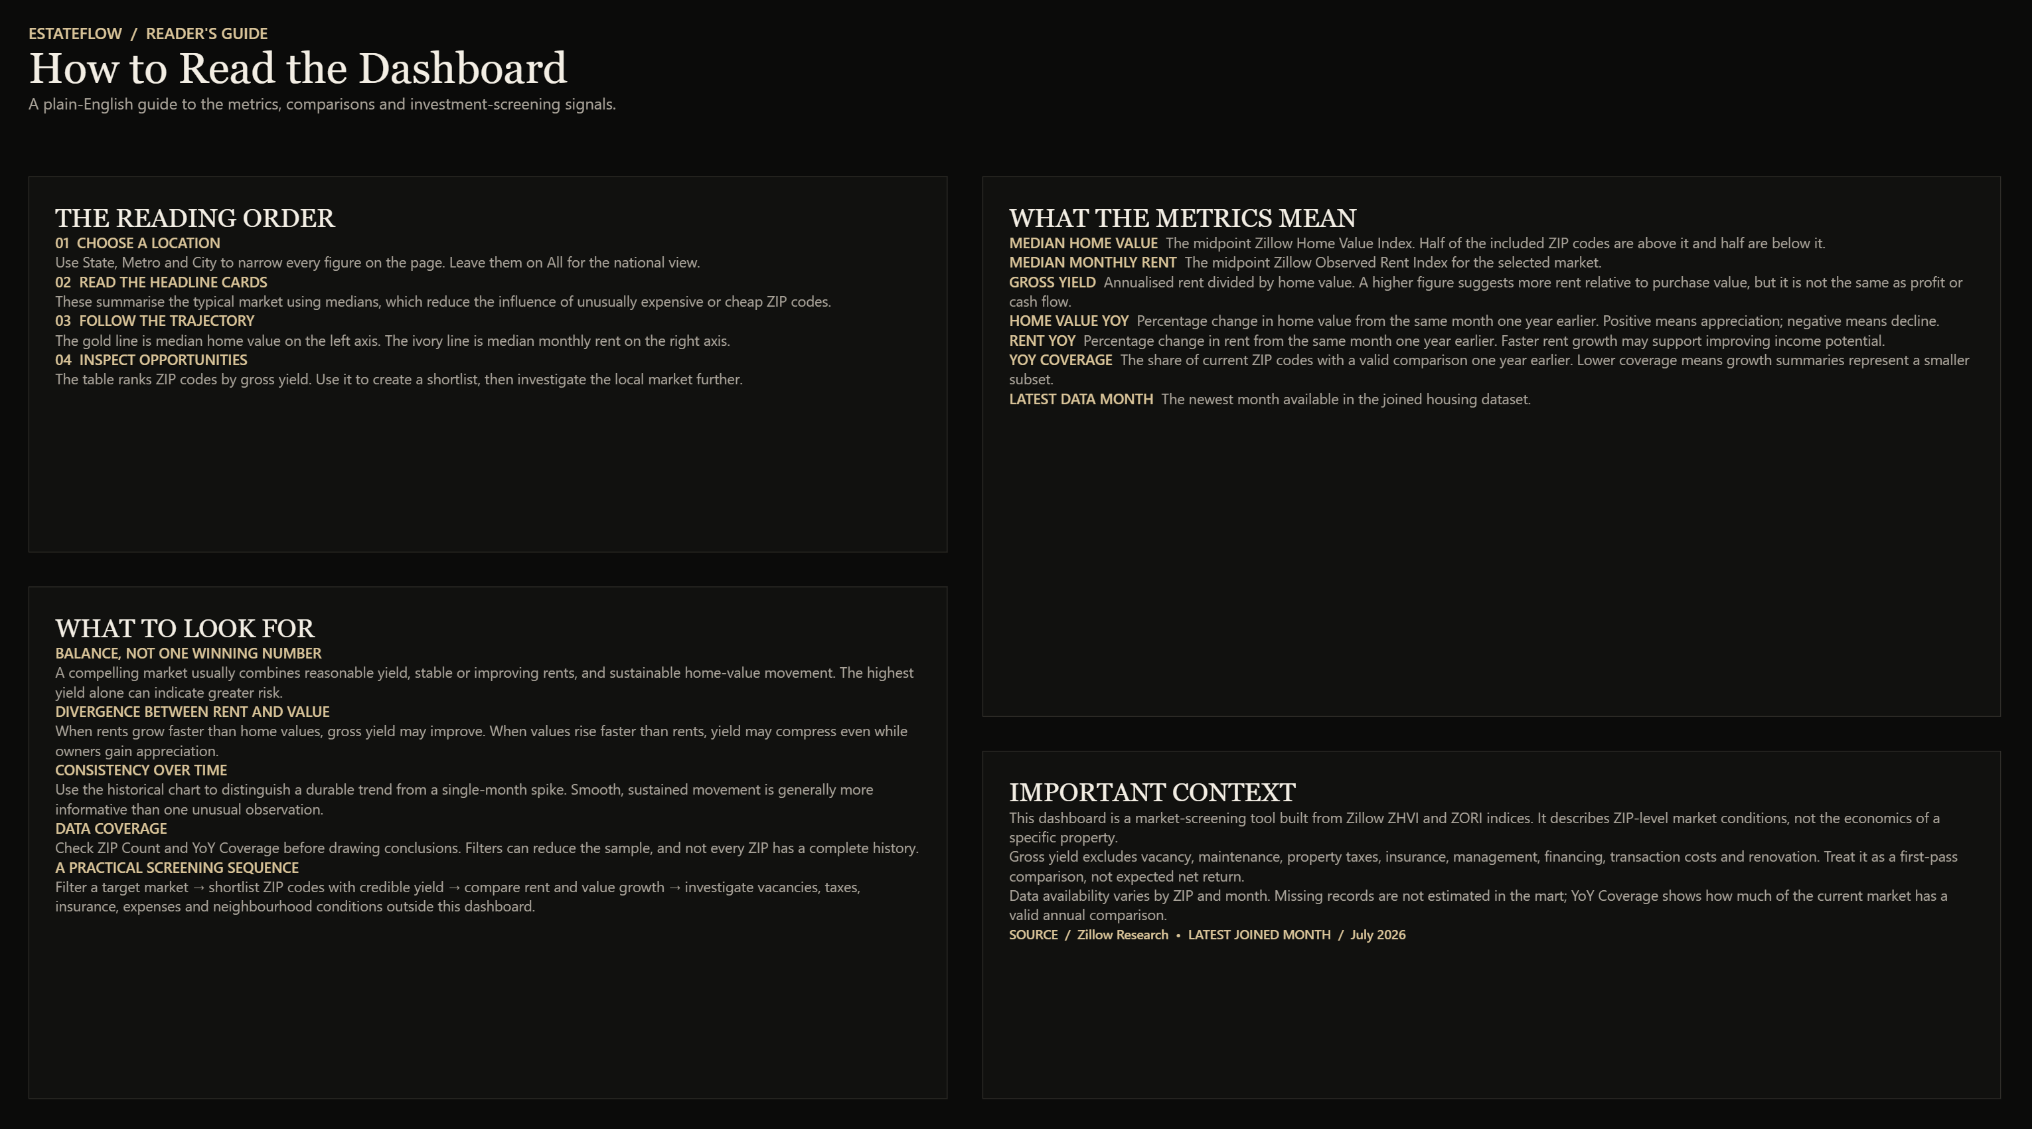
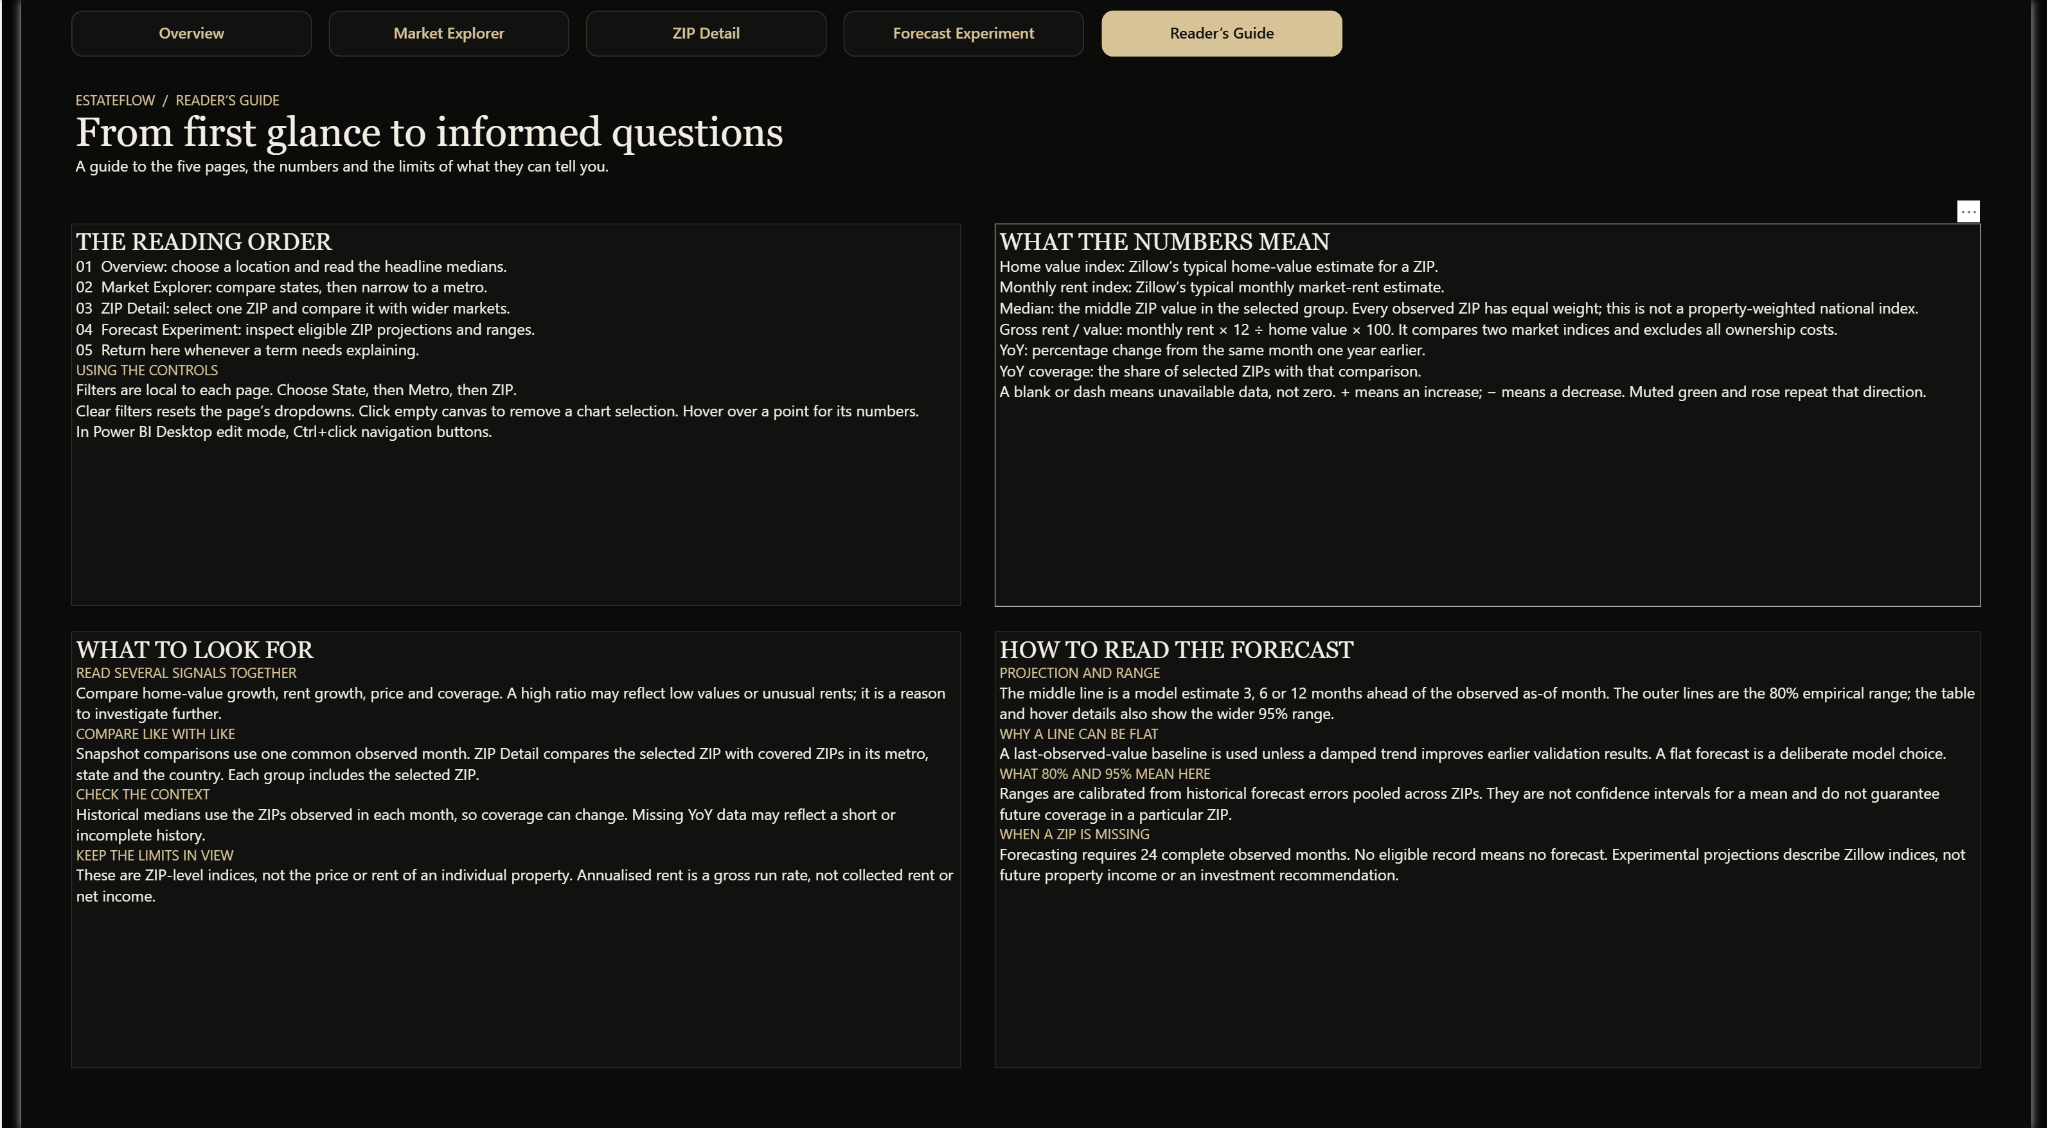
Publish August dashboard screenshots and record Desktop acceptance

diff --git a/README.md b/README.md
@@ -4,7 +4,7 @@ EstateFlow is a housing-market analytics project that takes Zillow home-value an
 
 ## Dashboard structure
 
-The editable Power BI Project under `powerbi/EstateFlow_PowerBI_Analytics` contains five pages: a national housing-market overview, a state and metro market explorer, ZIP detail, a separately labelled forecast experiment, and a plain-English guide. The August database rebuild and forecast publication passed all pipeline quality gates locally. Power BI refresh and Desktop interaction review remain release gates.
+The editable Power BI Project under `powerbi/EstateFlow_PowerBI_Analytics` contains five pages: a national housing-market overview, a state and metro market explorer, ZIP detail, a separately labelled forecast experiment, and a plain-English guide. The August database rebuild and forecast publication passed all pipeline quality gates locally. All five pages were refreshed and visually reviewed on 1 October 2026; the author confirmed navigation, Clear filters, and launcher-based startup reset. The report is verified locally, but a publicly interactive Power BI deployment is not yet available.
 
 ## Dashboard previews
 
@@ -15,6 +15,14 @@ The editable Power BI Project under `powerbi/EstateFlow_PowerBI_Analytics` conta
 ### Market explorer
 
 ![EstateFlow market explorer comparing state growth, gross yield, rent momentum, and metro markets](docs/images/estateflow-market-explorer.png)
+
+### ZIP detail
+
+![EstateFlow ZIP 94112 detail with August 2026 values, history, and benchmarks](docs/images/estateflow-zip-detail.png)
+
+### Forecast experiment
+
+![EstateFlow experimental forecasts for ZIP 01002 with empirical bounds](docs/images/estateflow-forecast-experiment.png)
 
 ### How to read the dashboard
 
@@ -28,7 +36,7 @@ The editable Power BI Project under `powerbi/EstateFlow_PowerBI_Analytics` conta
 - How much of the current market has a valid year-over-year comparison?
 - For eligible ZIPs, what do a simple baseline and validated trend model project at 3, 6 and 12 months, and how wide were their historically calibrated prediction bands?
 
-The published sources run through **31 August 2026**, with **462,410 matched ZIP-month records across 8,424 ZIPs** and **8,421 ZIPs in the latest matched snapshot**. The verified coverage and forecast results are recorded in [the data summary](docs/current-data.md). A local refresh records its newer source vintage in `data/raw/source_manifest.json`. Dashboard screenshots remain labelled as July 2026 previews. The Power BI figures update after the PostgreSQL pipeline, forecast publication, and Desktop refresh.
+The published sources run through **31 August 2026**, with **462,410 matched ZIP-month records across 8,424 ZIPs** and **8,421 ZIPs in the latest matched snapshot**. The verified coverage and forecast results are recorded in [the data summary](docs/current-data.md). A local refresh records its newer source vintage in `data/raw/source_manifest.json`. Dashboard screenshots show the August 2026 snapshot after a successful Desktop refresh. The gallery is a static preview; clone the project to use the report locally.
 
 ### Refresh to the latest available Zillow data
 
@@ -74,14 +82,14 @@ flowchart LR
 - **Market Explorer:** state and metro filters; a growth-versus-yield state comparison; rent-momentum ranking; and a metro comparison table.
 - **How to Read the Dashboard:** explains the measures, suggests a practical reading order, and makes the coverage and investment-screening limitations explicit.
 - **ZIP Detail:** historical home value and rent, growth, and comparison with state benchmarks for the selected ZIP.
-- **Forecast Experiment:** ZIP-level home-value and rent-index projections and empirical 80%/95% bounds, explicitly separated from the observed pages; pending a local Desktop refresh and visual check.
+- **Forecast Experiment:** ZIP-level home-value and rent-index projections and empirical 80%/95% bounds, explicitly separated from the observed pages; refreshed and visually checked locally with one selected ZIP.
 - The editable Power BI Project (`.pbip`) and semantic-model/report definitions are in [`powerbi/EstateFlow_PowerBI_Analytics`](powerbi/EstateFlow_PowerBI_Analytics). Local Power BI cache and settings are intentionally excluded.
 
 ### Experimental forecasts
 
 - A separate, reproducible ZIP-index forecast experiment compares an unchanged-last-value benchmark with a damped log trend at 3-, 6-, and 12-month horizons.
 - It uses chronological selection, validation, calibration, and final-evaluation periods and reports empirical prediction-interval coverage. On the August 2026 source snapshot, only the 12-month rent trend cleared the material-improvement threshold; home-value projections and shorter-horizon rent projections use the flat benchmark. See [the current measured results](docs/current-data.md).
-- A separate **Forecast Experiment** Power BI page and import table are authored. Run the explicit database publish step and verify the page in Power BI Desktop before relying on it. A forecast is not an observed Zillow value, a property valuation, or net rental income. See the [forecast methodology and measured results](docs/forecast-methodology.md).
+- A separate **Forecast Experiment** Power BI page and import table are authored. Run the explicit database publish step before refreshing Power BI; the August-vintage page has been checked locally. A forecast is not an observed Zillow value, a property valuation, or net rental income. See the [forecast methodology and measured results](docs/forecast-methodology.md).
 - The August source files were downloaded, validated, and published on 1 October 2026. Forecast accuracy remains retrospective and exploratory; future-origin projections have not reached their target months.
 
 ## Analytical model
@@ -151,7 +159,7 @@ uv run python src/estateflow/run_forecast.py --publish-to-db
 docker compose exec -T postgres psql -U estateflow_user -d estateflow -v ON_ERROR_STOP=1 -f - < sql/quality/check_zip_market_forecasts.sql
 ```
 
-Then refresh the editable Power BI Project and review the **Forecast Experiment** page. The page is authored in the repo but still requires a Power BI Desktop render and interaction check. The established observed-data pipeline does not run forecasting automatically.
+Then refresh the editable Power BI Project and review the **Forecast Experiment** page. The August-vintage page was rendered and checked locally on 1 October 2026. The established observed-data pipeline does not run forecasting automatically.
 
 ## Repository map
 
@@ -168,8 +176,8 @@ tests/                      Automated project tests
 
 ## Next steps
 
-- Refresh all five Power BI pages and verify navigation, reset controls, and filter behaviour in Desktop.
-- Capture updated dashboard screenshots and publish the verified report.
+- Publish an interactive online report and verify visitor access. The five-page Desktop report, filter controls, and launcher reset have passed local acceptance.
+- Prepare the final handbook and release package.
 - Re-evaluate forecasts when new Zillow observations arrive; CI already runs unit and PostgreSQL quality-gate tests.
 - Assess whether carefully selected FRED or Census measures improve the market context without overstating causal explanations.
 

diff --git a/docs/current-data.md b/docs/current-data.md
@@ -31,4 +31,6 @@ These are exploratory retrospective results on revised Zillow indices, not prosp
 
 ## Power BI acceptance
 
-The report definitions contain five pages. PostgreSQL rebuilding and forecast publication passed locally; Power BI Desktop refresh, navigation, filter reset, and visual review remain pending. Dashboard screenshots are historical July previews until refreshed and recaptured.
+On 1 October 2026, the author refreshed the five-page report in Power BI Desktop. Screenshots confirmed populated Overview, Market Explorer, ZIP Detail, Forecast Experiment, and Reader's Guide pages. The forecast page was checked with ZIP 01002, showing both charts and all six horizon/index rows; ZIP Detail was checked with San Francisco ZIP 94112. The author confirmed that navigation, Clear filters, and reopening through `Open EstateFlow.cmd` worked, restoring Overview and cleared filters.
+
+The dashboard previews now show the August 2026 snapshot. These are screenshots of the locally verified report, not a publicly hosted interactive report. Power BI Service publication and public access have not yet been verified.
